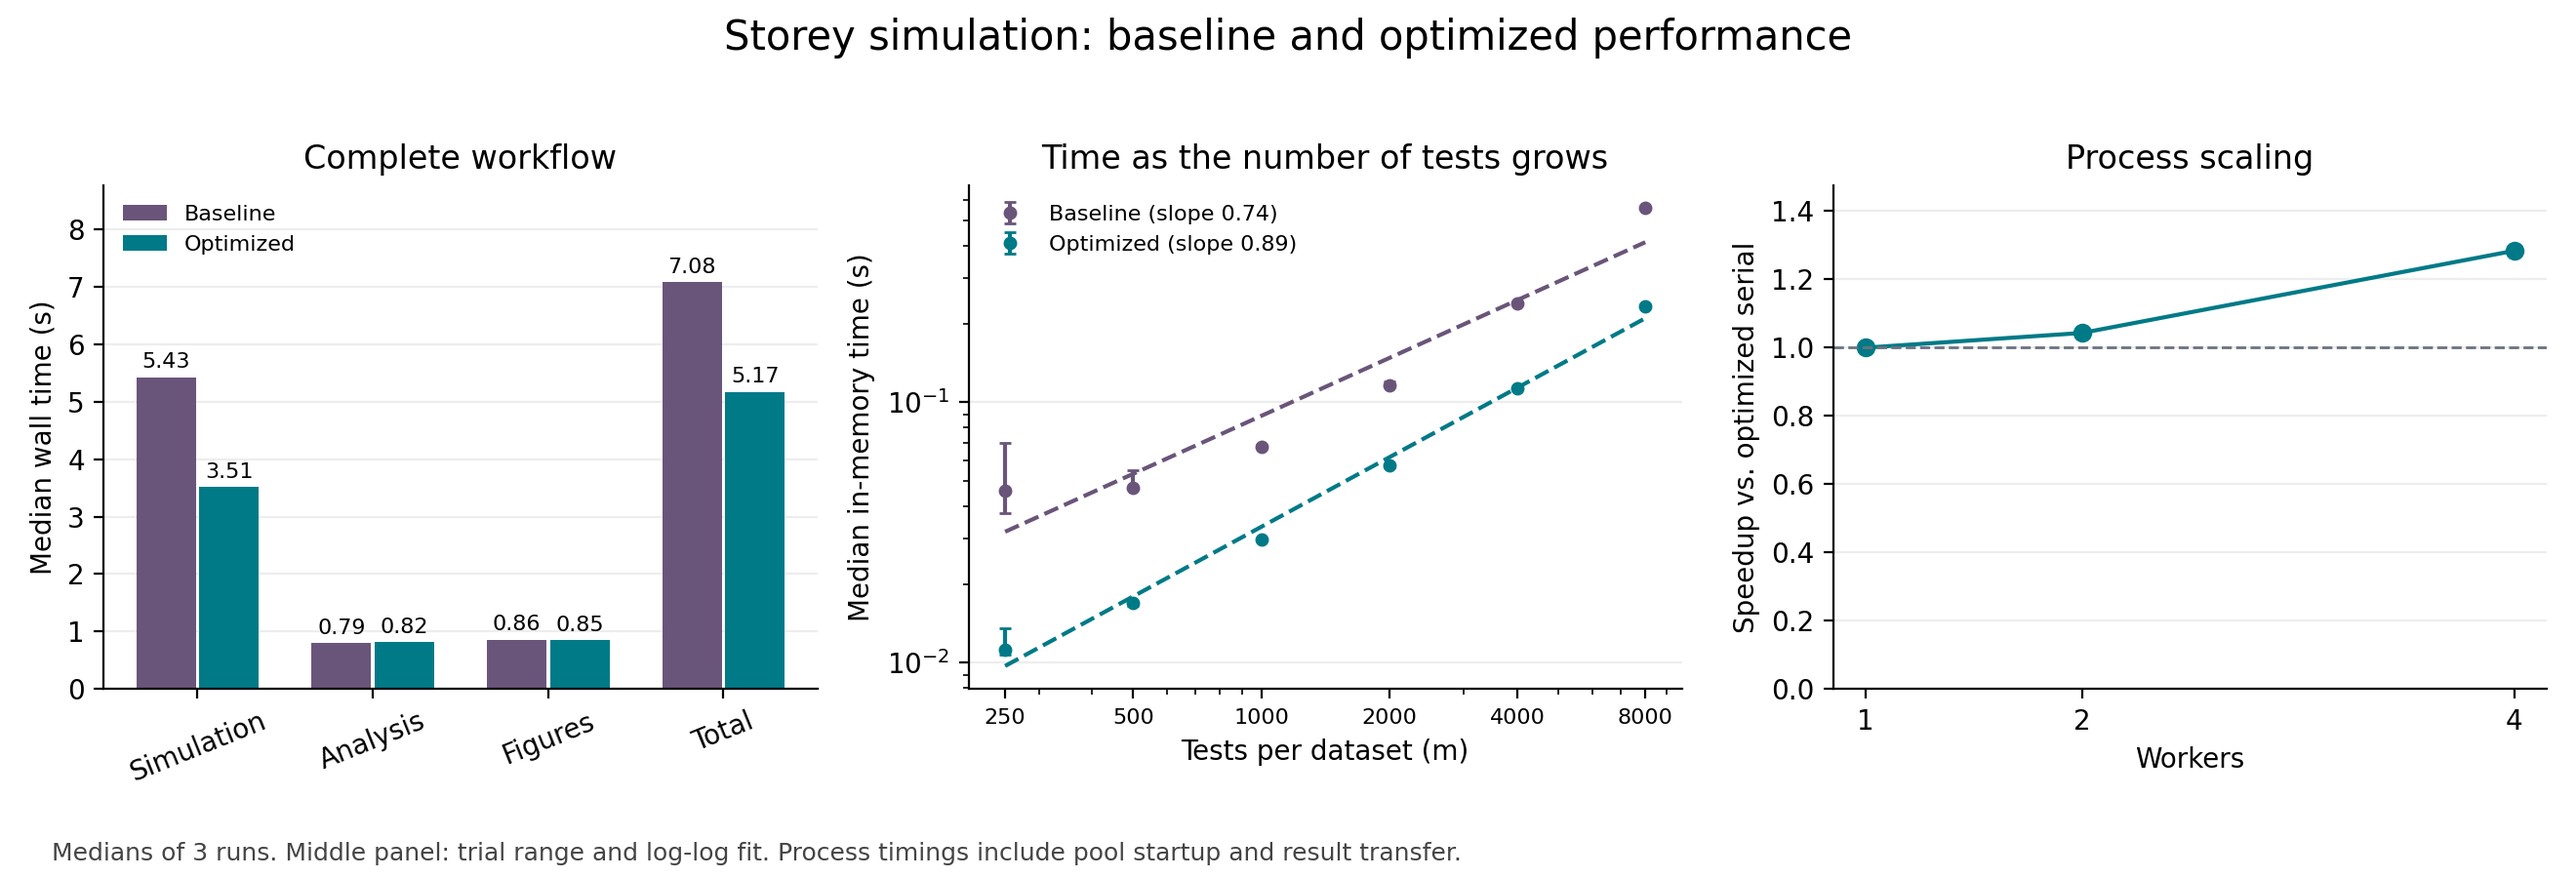
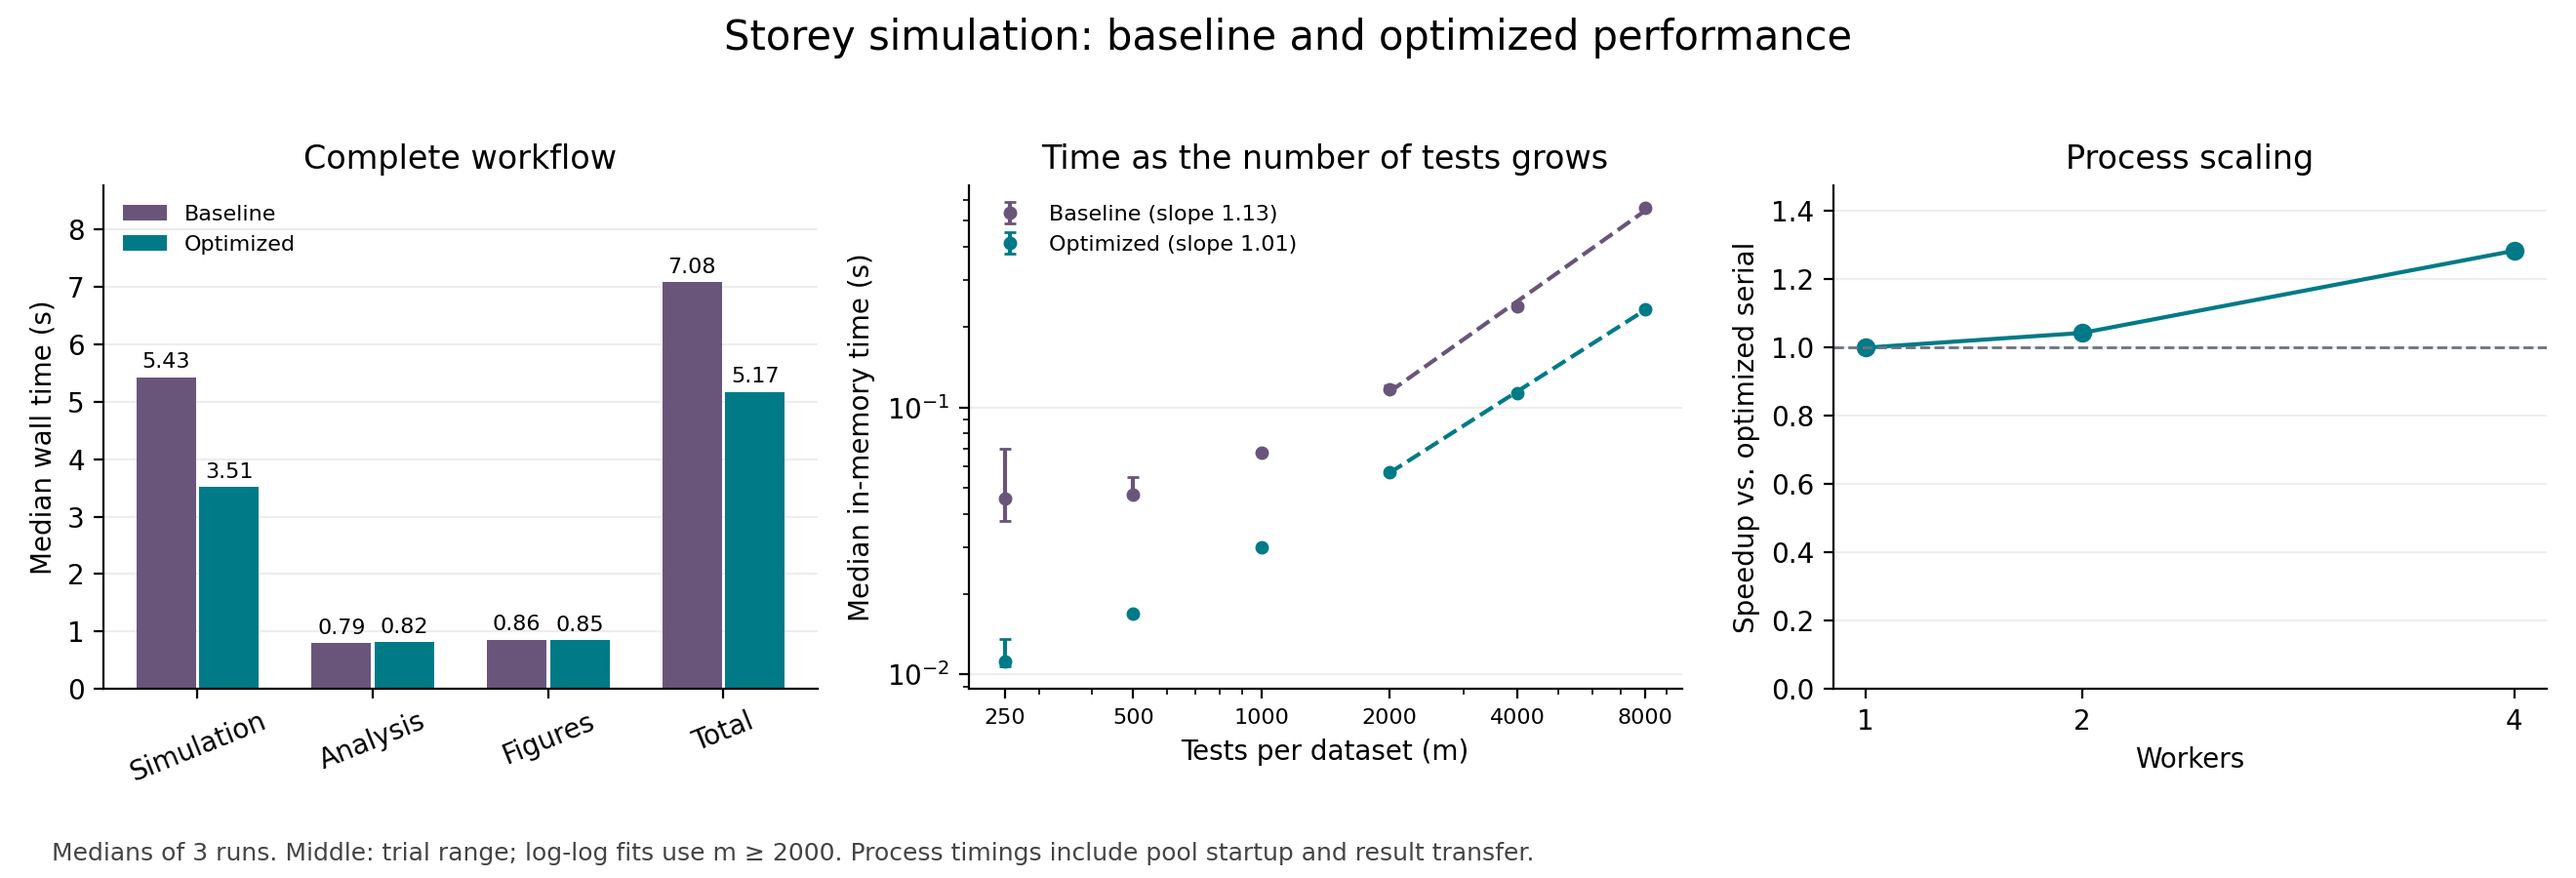
Fit complexity at larger sizes and streamline the project notes

diff --git a/project3/performance.py b/project3/performance.py
@@ -83,10 +83,40 @@ def profile(engine, config, output):
     (output / f"profile_{engine}.txt").write_text(stream.getvalue().rstrip() + "\n")
 
 
-def complexity(engines, config, trials, output):
-    """Measure the same two scenarios per size and fit a log-log slope."""
+def fit_complexity(measurements, output):
+    """Fit log-log slopes using the three large sizes (m >= 2000).
+
+    Keep the full-range slopes alongside the fitted range so different
+    measurement runs and fitting choices can be distinguished.
+    """
     import numpy as np
 
+    fitted = {}
+    for engine, group in measurements.groupby("engine"):
+        medians = group.groupby("m").seconds.median()
+        tail = medians.loc[medians.index >= 2000]
+        if len(tail) < 3:
+            raise ValueError("Complexity fitting needs at least three sizes at m >= 2000")
+        slope, intercept = np.polyfit(np.log(tail.index), np.log(tail), 1)
+        fitted[engine] = {
+            "slope": float(slope),
+            "intercept": float(intercept),
+            "sizes": tail.index.tolist(),
+            "full_range_slope": float(
+                np.polyfit(np.log(medians.index), np.log(medians), 1)[0]
+            ),
+        }
+    report = {"fit_min_m": 2000, "engines": fitted}
+    (output / "complexity_fit.json").write_text(json.dumps(report, indent=2) + "\n")
+    (output / "complexity_slopes.json").write_text(
+        json.dumps({engine: result["slope"] for engine, result in fitted.items()}, indent=2)
+        + "\n"
+    )
+    return report
+
+
+def complexity(engines, config, trials, output):
+    """Measure the same two scenarios per size and fit a log-log slope."""
     rows = []
     reduced = dict(config, pi0_values=[0.2, 0.8], boundary_pi0=[], replicates=100)
     for size in SIZES:
@@ -98,11 +128,7 @@ def complexity(engines, config, trials, output):
                 )
     measurements = pd.DataFrame(rows)
     measurements.to_csv(output / "complexity.csv", index=False)
-    slopes = {}
-    for engine, group in measurements.groupby("engine"):
-        medians = group.groupby("m").seconds.median()
-        slopes[engine] = float(np.polyfit(np.log(medians.index), np.log(medians), 1)[0])
-    (output / "complexity_slopes.json").write_text(json.dumps(slopes, indent=2) + "\n")
+    fit_complexity(measurements, output)
 
 
 def stability(engines, config, output):

diff --git a/project3/plot_performance.py b/project3/plot_performance.py
@@ -14,12 +14,14 @@ import matplotlib.pyplot as plt
 import numpy as np
 import pandas as pd
 
+from performance import fit_complexity
+
 
 def plot_performance(directory):
     """Read timing files from directory and write the comparison figure there."""
     benchmark = json.loads((directory / "benchmark.json").read_text())
     complexity = pd.read_csv(directory / "complexity.csv")
-    slopes = json.loads((directory / "complexity_slopes.json").read_text())
+    fits = fit_complexity(complexity, directory)
     scaling = pd.read_csv(directory / "parallel.csv")
     colors = {"baseline": "#6A557A", "optimized": "#007A87"}
     fig, axes = plt.subplots(1, 3, figsize=(13.2, 4.5))
@@ -41,8 +43,9 @@ def plot_performance(directory):
     for engine, group in complexity.groupby("engine"):
         timing = group.groupby("m").seconds.agg(["median", "min", "max"])
         sizes, medians = timing.index.to_numpy(), timing["median"].to_numpy()
-        slope = slopes[engine]
-        intercept = (np.log(medians) - slope * np.log(sizes)).mean()
+        fitted = fits["engines"][engine]
+        slope, intercept = fitted["slope"], fitted["intercept"]
+        fit_sizes = np.asarray(fitted["sizes"])
         color = colors[engine]
         axes[1].errorbar(
             sizes,
@@ -54,7 +57,7 @@ def plot_performance(directory):
             markersize=4,
             label=f"{engine.capitalize()} (slope {slope:.2f})",
         )
-        axes[1].loglog(sizes, np.exp(intercept) * sizes**slope, "--", color=color)
+        axes[1].loglog(fit_sizes, np.exp(intercept) * fit_sizes**slope, "--", color=color)
     axes[1].set(
         title="Time as the number of tests grows",
         xlabel="Tests per dataset (m)",
@@ -83,7 +86,7 @@ def plot_performance(directory):
     fig.text(
         0.02,
         0.02,
-        f"Medians of {trials} runs. Middle panel: trial range and log-log fit. "
+        f"Medians of {trials} runs. Middle: trial range; log-log fits use m ≥ 2000. "
         "Process timings include pool startup and result transfer.",
         fontsize=9,
         color="#444444",

diff --git a/project3/tests/test_regression.py b/project3/tests/test_regression.py
@@ -105,3 +105,27 @@ def test_cli_writes_raw_and_metadata(study_config, tmp_path):
         "baseline/src/dgps.py",
         "baseline/src/simulation.py",
     }
+
+
+def test_complexity_fit_uses_only_large_sizes(tmp_path):
+    """Small-size overhead must not affect the reported tail slope."""
+    from performance import fit_complexity
+
+    sizes = [250, 500, 1000, 2000, 4000, 8000]
+    data = pd.DataFrame(
+        {
+            "engine": ["baseline"] * 6,
+            "m": sizes,
+            "seconds": [9, 8, 7, 2, 4, 8],
+        }
+    )
+    report = fit_complexity(data, tmp_path)
+    assert report["engines"]["baseline"]["sizes"] == [2000, 4000, 8000]
+    assert report["engines"]["baseline"]["slope"] == pytest.approx(1)
+    data.loc[data.m < 2000, "seconds"] *= 100
+    updated = fit_complexity(data, tmp_path)
+    assert updated["engines"]["baseline"]["slope"] == report["engines"]["baseline"]["slope"]
+    assert (
+        updated["engines"]["baseline"]["full_range_slope"]
+        != report["engines"]["baseline"]["full_range_slope"]
+    )

diff --git a/project3/docs/OPTIMIZATION.md b/project3/docs/OPTIMIZATION.md
@@ -1,13 +1,11 @@
 # Optimizing the Storey simulation
 
 The complete workflow went from **7.08 to 5.17 seconds** (1.37× speedup,
-27% less time). The in-memory calculation improved by **2.37×**, from
-**3.34 to 1.41 seconds**, in a separate unprofiled timing experiment.
-CSV formatting, gzip compression and writing still took about **1.6 seconds**
+27% less time). The in-memory calculation improved by 2.37×, from
+3.34 to 1.41 seconds, in a separate unprofiled timing experiment.
+CSV formatting, gzip compression and writing still took about 1.6 seconds
 per run. Those costs, plus imports and the unchanged analysis and figures,
 explain why the whole workflow improved less than the computation.
-The paired cProfile runs show **4.846 to 1.704 seconds** (2.84×), with the
-additional cost of profiling included.
 
 Both timing experiments used medians of three runs per version on the same
 macOS ARM64 machine and Python environment. Full-workflow trials used separate
@@ -17,6 +15,9 @@ computation timing excludes imports and file output.
 [Whole-workflow timings](../results/comparison/benchmark.json) ·
 [Compute and write timings](../results/comparison/phases.json) ·
 [Performance figure](../results/comparison/performance.png)
+
+Repeat the phase measurement with `make phases`; it writes
+`tmp/performance/phases.json`.
 
 ## Reuse the ordering for BH
 
@@ -43,10 +44,12 @@ A prefix sum of the ordered null labels gives the false rejection count at
 each selected rank. The fixed-alpha counts are broadcast over gamma when
 building the result table. This takes the number of dataset sorts from
 80,000 to 20,000. Across the paired profiles, cumulative NumPy argsort time
-fell from **1.354 to 0.595 seconds** (including any sorts outside BH).
+fell from 1.354 to 0.595 seconds (including any sorts outside BH).
 The sort term changes from `O(R G m log m)` to `O(R m log m)`; scanning the
 levels still takes `O(R G m)`. The prefix table uses extra temporary memory
-but avoids rebuilding and summing rejection masks for every BH level. The cost is readability:
+but avoids rebuilding and summing rejection masks for every BH level.
+
+The cost is readability:
 `bh_counts` works with row sorting, prefix counts and rank-indexed lookups,
 whereas the original `bh` returns a simple rejection mask. Handling a zero
 selected rank and aligning the null prefix with that rank require particular
@@ -56,7 +59,7 @@ tied-p-value tests make mismatches visible when the optimized code changes.
 
 ## Evaluate replicates in batches
 
-The original profile attributed **0.746 seconds** to 20,000 calls to the
+The original profile attributed 0.746 seconds to 20,000 calls to the
 normal survival function. Storey and BH also repeatedly built masks one
 replicate at a time.
 
@@ -77,7 +80,7 @@ fixed_counts = fixed_mask.sum(axis=2)
 ```
 
 `generate_batch` calls `norm.sf(statistics)` once per block. With 64
-replicates per block, the profile shows **320 calls and 0.280 seconds**
+replicates per block, the profile shows 320 calls and 0.280 seconds
 in that function. The broadcast arrays have replicate, cutoff and test axes,
 and the output table keeps the original replicate, cutoff and method order.
 The extra working arrays scale with `O(B (G+1) m)` per worker for block size
@@ -98,8 +101,8 @@ groups = list(map(run_group, tasks))
 groups = list(pool.map(run_group, tasks))
 ```
 
-The full study took a median **1.43 s** in memory with one worker, **1.37 s**
-with two, and **1.11 s** with four (1.28× over optimized serial). The
+The full study took a median 1.43 s in memory with one worker, 1.37 s
+with two, and 1.11 s with four (1.28× over optimized serial). The
 [worker timings](../results/comparison/parallel.csv) include process startup
 and transfer of the result tables. They exclude gzip and plots. The speedup
 is modest because each task is already short and each process needs its own
@@ -111,11 +114,25 @@ version with `make parallel WORKERS=4`.
 The [log-log comparison](../results/comparison/performance.png) varies the
 number of tests from 250 to 8,000. The optimized version was faster at all
 six measured sizes. At 1,000 tests, the median in-memory times were 0.068 s
-and 0.030 s; at 8,000 they were 0.556 s and 0.233 s. The finite-range slopes
-were 0.74 (baseline) and 0.89 (optimized). The higher optimized slope is
-compatible with reducing fixed overhead: data-size work makes up a larger
-share of the smaller total. With the number of gamma values fixed, both
-versions still sort p-values and have the same asymptotic order in `m`.
+and 0.030 s; at 8,000 they were 0.556 s and 0.233 s. The slopes
+in the figure are 1.13 (baseline) and 1.01 (optimized), fitted only to
+m = 2,000, 4,000 and 8,000. All six measured sizes remain visible, but
+the dashed fits cover only those three large sizes. Small datasets have
+a larger contribution from fixed overhead, which bends the full-range
+curve. A three-point fit over this finite range is a scaling diagnostic,
+not a proof of asymptotic complexity. With the number of gamma values
+fixed, both engines still have the same asymptotic order in m.
+
+The initial baseline experiment in BASELINE.md fitted all six sizes and
+gave 0.79. An independent baseline measurement in the paired comparison
+gave 0.74 with the same full-range fitting rule; its optimized slope was
+0.89. The two baseline numbers come from different timing trials, not
+different source code. The updated [fit metadata](../results/comparison/complexity_fit.json)
+records both the full-range slopes and the large-size fits used in the figure.
+
+The paired cProfile runs show 4.846 versus 1.704 seconds (2.84×) with
+profiling enabled. These instrumented times are separate from the
+unprofiled compute and complete-workflow timings reported above.
 
 The full-study regression matches every value in the 120,000 rows exactly.
 Tests also compare summary tables, process ordering, tied p-values,
@@ -148,6 +165,3 @@ that is a small return for the extra deployment and debugging burden, so
 serial remains the default. Parallel execution would be worth reconsidering
 if scenarios were larger or more expensive. It does not replace the
 simpler gains from eliminating repeated work.
-
-To repeat the phase measurement, run `make phases`; the output is
-`tmp/performance/phases.json`.

diff --git a/project3/README.md b/project3/README.md
@@ -5,6 +5,10 @@ It reuses each dataset's p-value ordering across BH levels and evaluates
 replicates in batches. The statistical design and replicate seed mapping carry
 over from Project 2. The regression tests compare every output row in the full study.
 
+On macOS ARM64, the full workflow fell from 7.08 to 5.17 seconds
+(1.37× speedup); in-memory computation fell from 3.34 to 1.41 seconds
+(2.37×). The benchmark data and measurement scopes are described below.
+
 - [Baseline measurements](docs/BASELINE.md)
 - [Optimization results and trade-offs](docs/OPTIMIZATION.md)
 - [Performance figure](results/comparison/performance.png)
@@ -37,11 +41,17 @@ results, tables and scientific figures to `tmp/study/`.
 | `make clean` | Remove generated study and performance outputs under `tmp/` |
 
 Timing outputs go to `tmp/performance/`. `TRIALS=3` is the default.
+On the measured Mac, `make performance` took 81 seconds (about 1.5 minutes)
+with dependencies already installed.
 The measured comparison in [results/comparison/](results/comparison/) includes
 individual trials and the Python and package versions. The performance figure
 can also be rebuilt from those files with
 `.venv/bin/python plot_performance.py results/comparison`.
 
-The frozen Project 2 source is under `baseline/`. The optimized engine is
-`optimized.py`; it writes the same raw schema so both engines use the same
-analysis and scientific figure code.
+The frozen Project 2 modules under `baseline/src/` are also runtime
+dependencies: the optimized engine reuses the seed construction and design
+configuration helpers, and both engines use the same analysis and scientific
+figure modules. Regression tests compare against the original BH implementation.
+The baseline study configuration and Table 2 reference are kept alongside those
+modules. Environment setup and experiment commands live in the Project 3
+Makefile and requirements file.

diff --git a/project3/docs/BASELINE.md b/project3/docs/BASELINE.md
@@ -55,7 +55,9 @@ replicate-level result table contains `3 R G` rows.
 
 I varied `m` from 250 to 8,000 using 100 replicates per design group,
 null proportions 0.2 and 0.8, and both label modes. The log-log slope
-of the median of three timings was 0.79 over this range. This is a
+of the median of three timings was 0.79 over this range. This was the initial
+baseline run; the later paired-comparison run gave 0.74 using the same
+full-range fit. The revised comparison figure fits only m >= 2,000. This is a
 finite-range measurement: seed construction, Python calls and output
 assembly add work that does not grow with `m`. It is not an estimate
 of the asymptotic sort exponent. See [raw timings](../results/baseline/complexity.csv).
@@ -73,4 +75,6 @@ API warnings, not numerical failures. The simulation and analysis
 subprocesses emitted no warnings. [Stability log](../results/baseline/stability.json).
 
 From `project3/`, the original measurements can be repeated with
-`python performance.py baseline --output tmp/baseline`.
+`python performance.py baseline --output tmp/baseline`. The current harness
+records the full-range slope in `complexity_fit.json` and the large-size
+slope in `complexity_slopes.json`.
